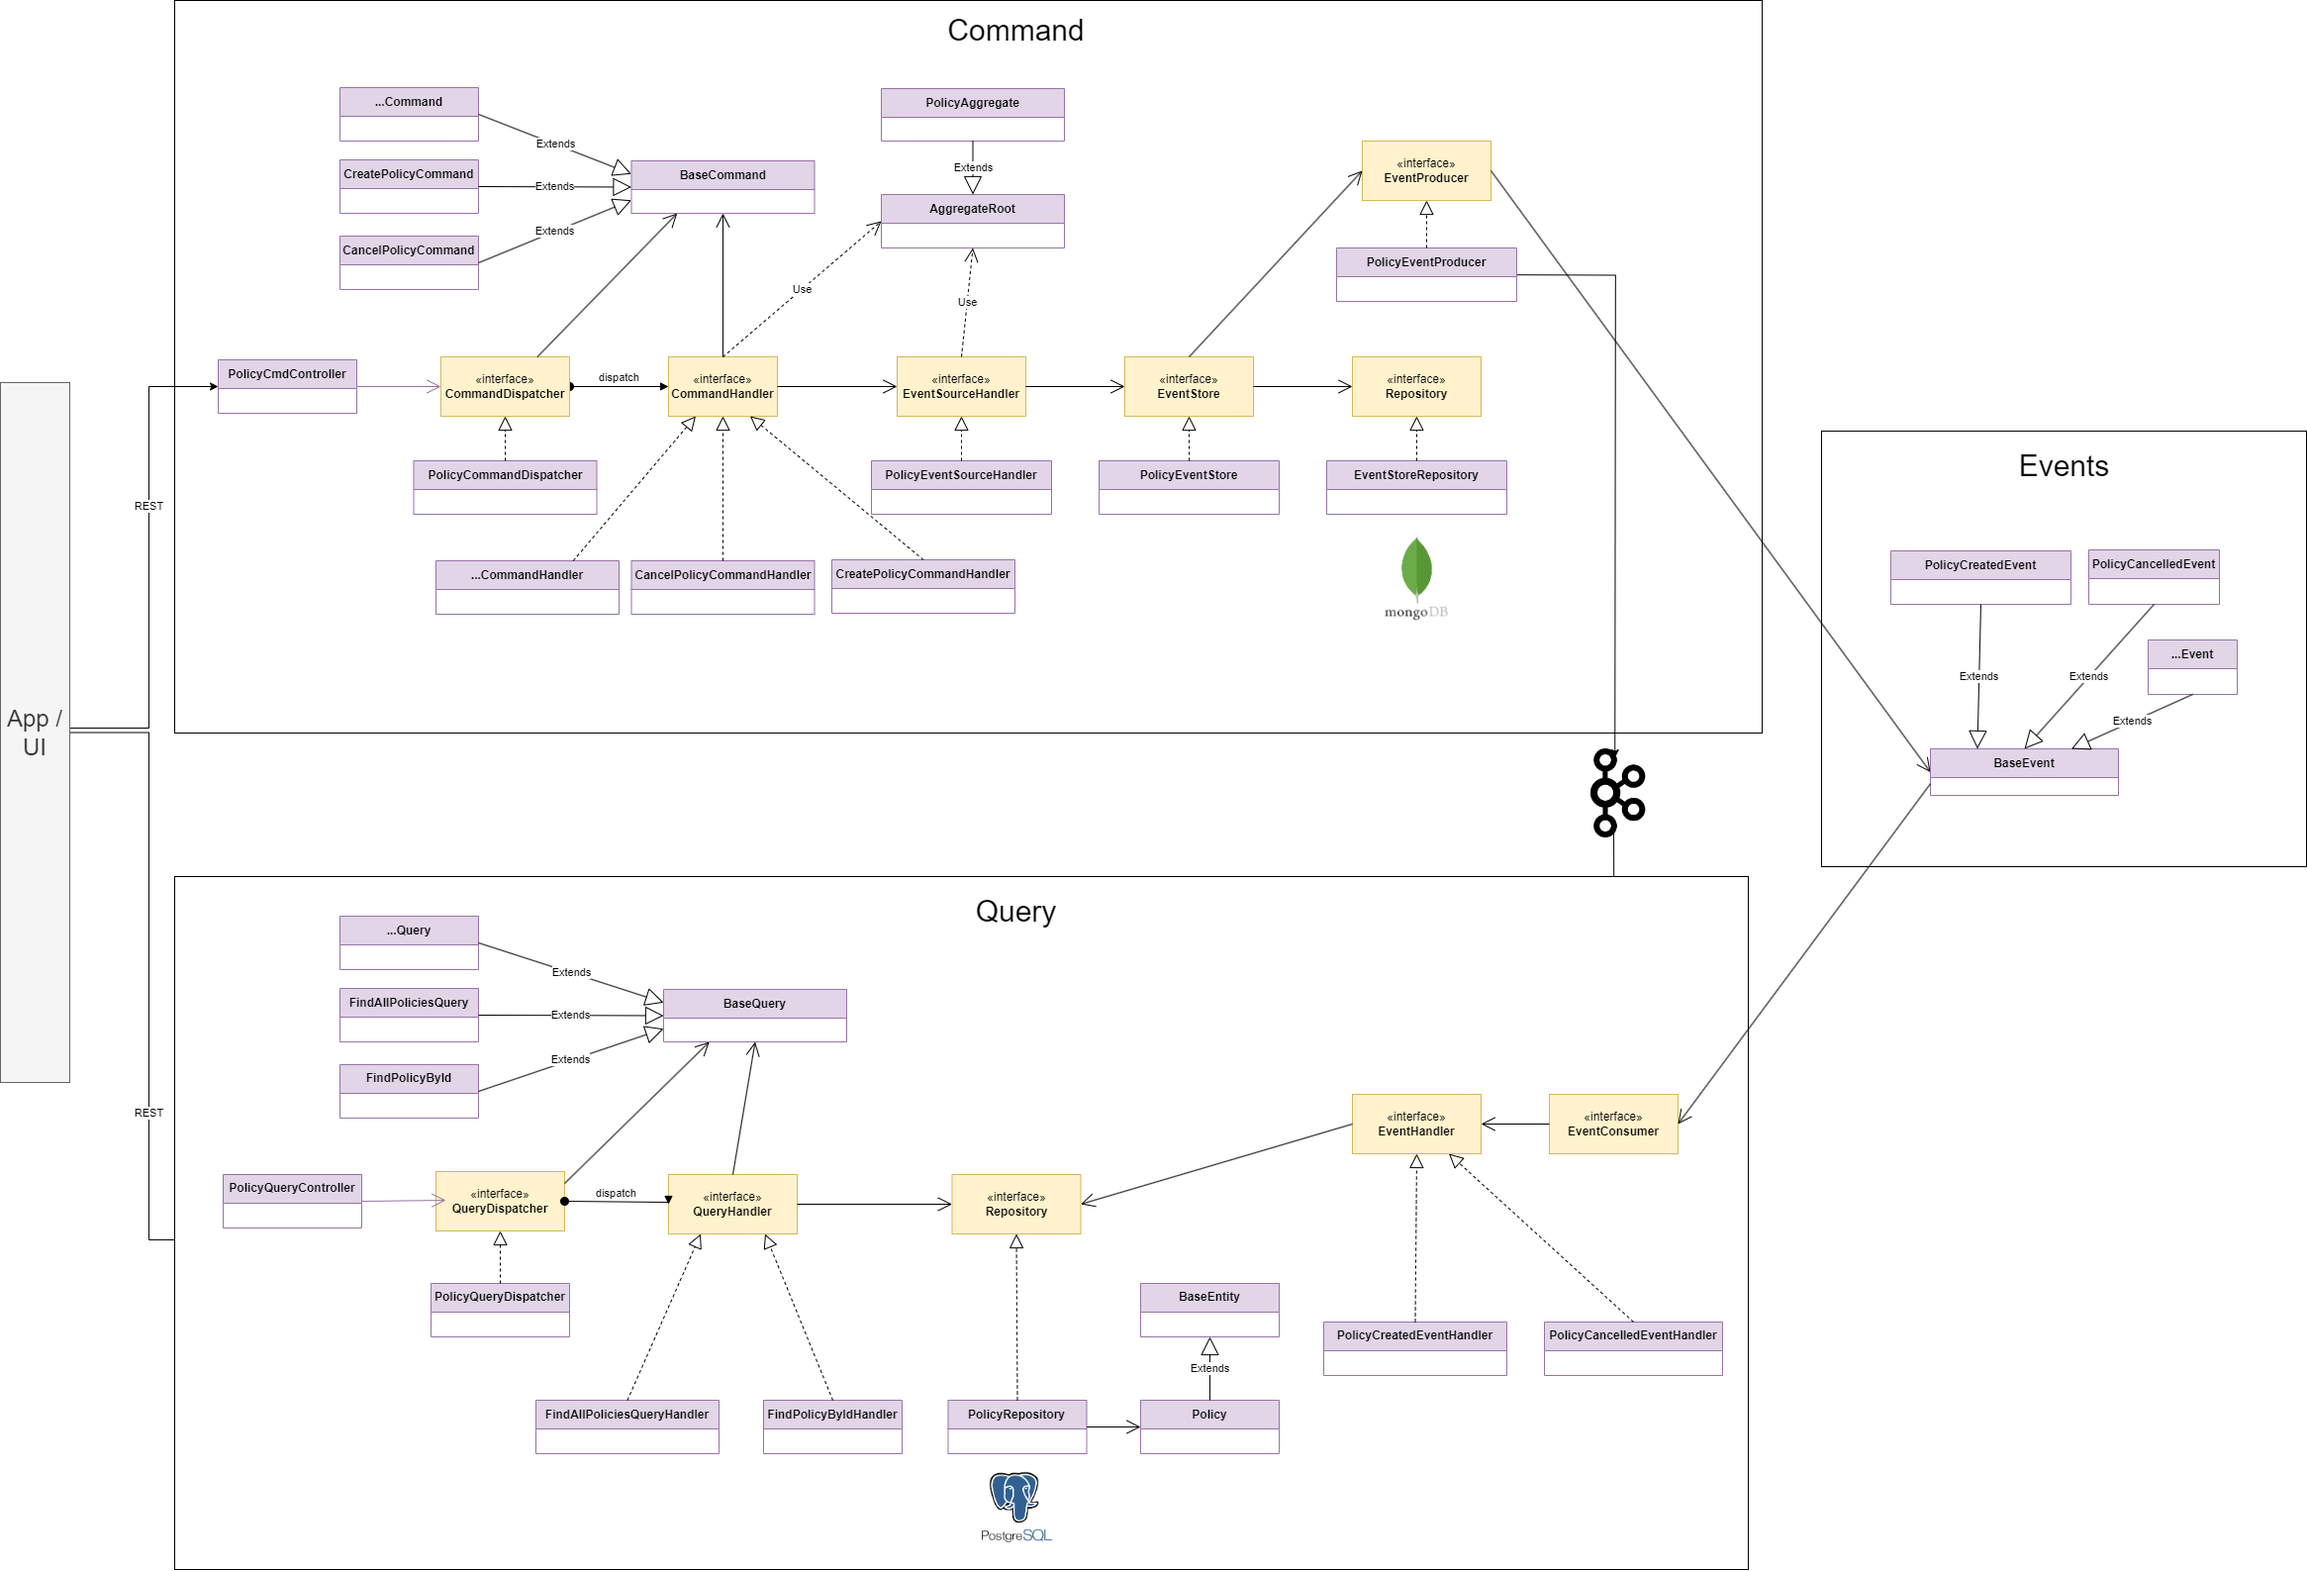
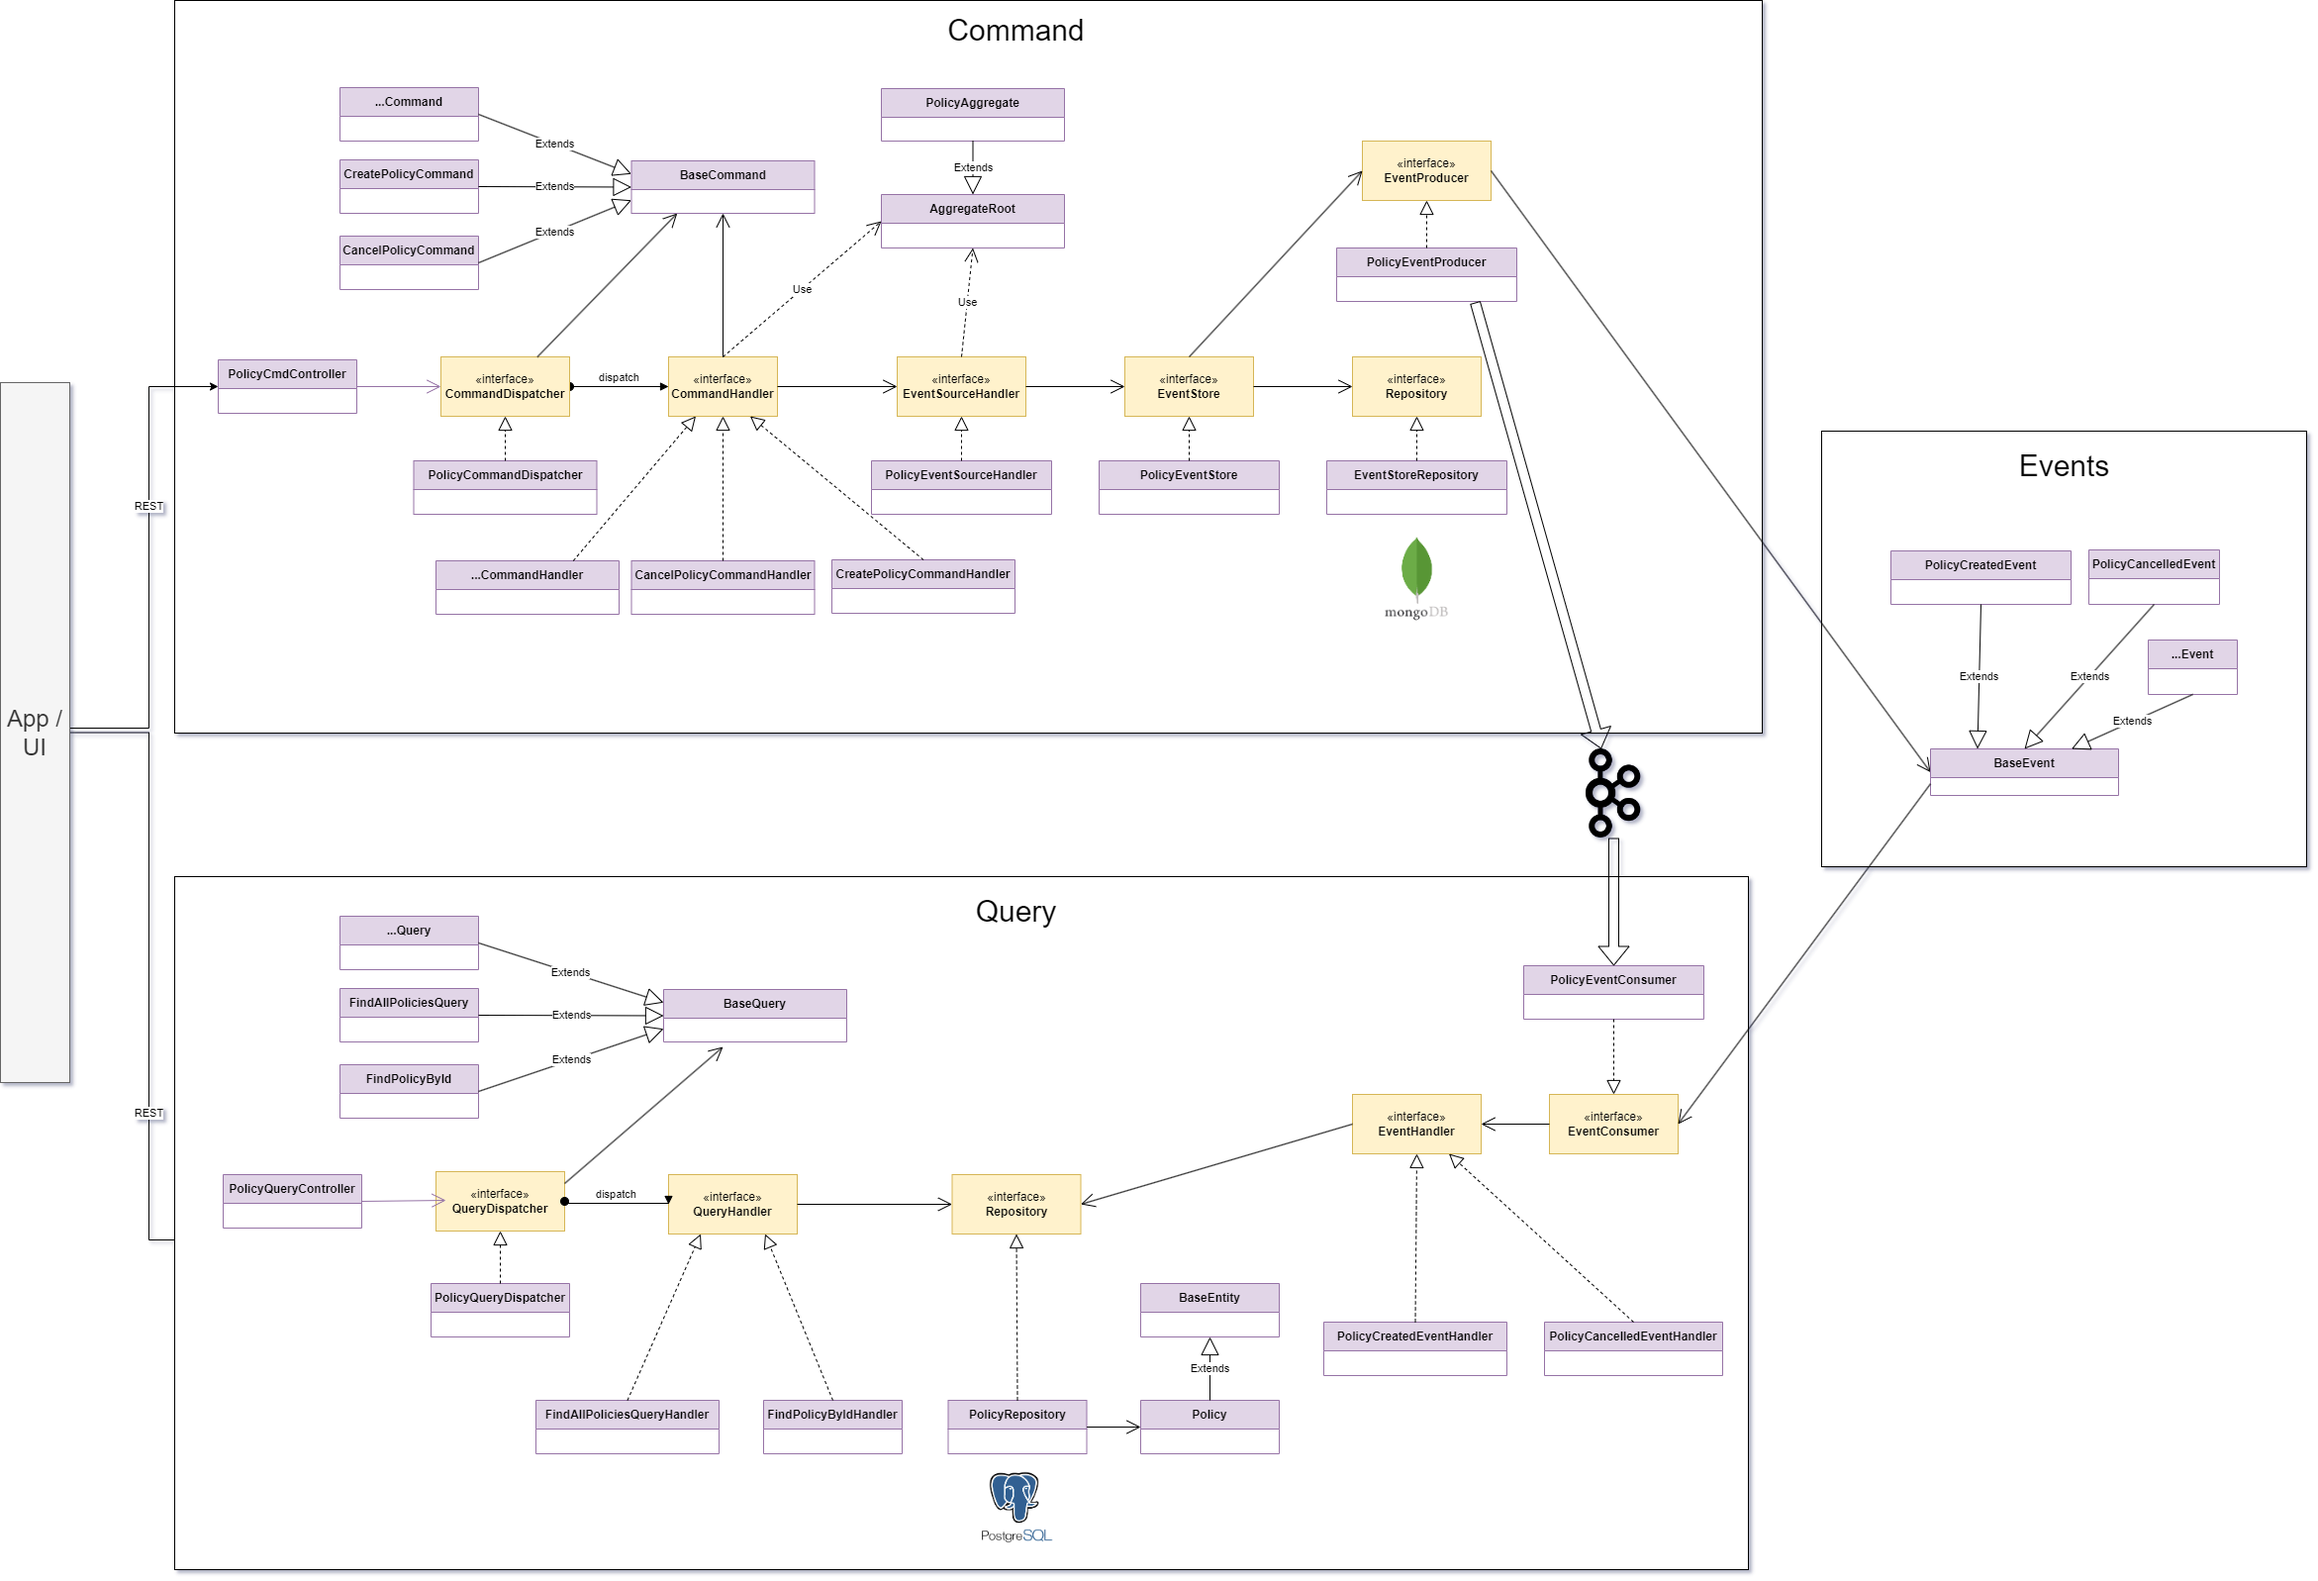
Replay events instruction and fix UML

diff --git a/21.md b/21.md
@@ -261,3 +261,16 @@ public class AdminPolicyController {
 }
 
 ```
+
+## How to test that replay events are working
+Follow the following steps:
+- Create some and update the policy information using the `policy-cmd` REST endpoints.
+- Stop `policy-query` and erase all the data from the PostgresSQL
+- Start `policy-query` and check there is not data anymore
+- Invoke the `AdminPolicyController` endpoint operation '/api/v1/policies/admin' using
+    ```shell
+    curl -X POST http://localhost:5002/api/v1/policies/admin/restore-read \
+    -H "Content-Type: application/json"
+    ```
+- Check the PostgresSQL has again the information recreated by replaying the events from the event store
+
